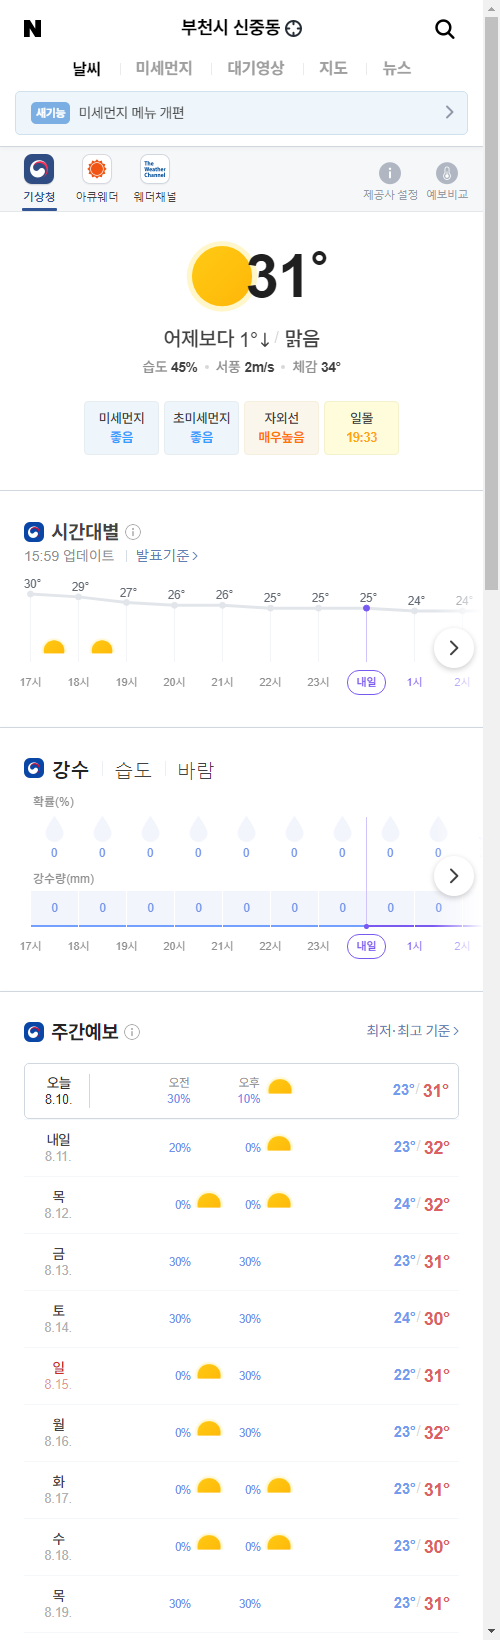
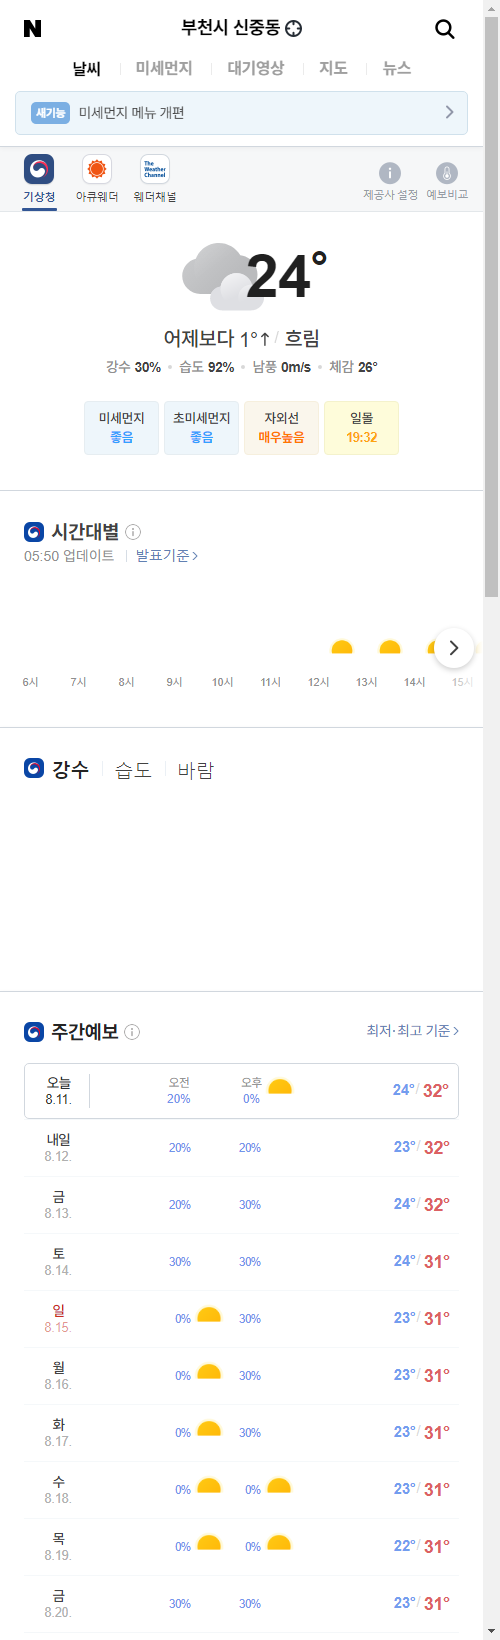
update result

diff --git a/README.md b/README.md
@@ -1,5 +1,5 @@
-##  2021-08-10 16:03:21   화요일 
-##### 날씨   -   어제보다 1° 낮아요맑음  
+##  2021-08-11 05:55:12   수요일 
+##### 날씨   -   어제보다 1° 높아요흐림  
 <center><img src="../img/naver_weather_week.png"></center>
 ----
 ----
@@ -13,17 +13,17 @@
 ##### 세계
 <table border="1" bordercolor="blue" align = "center" >
 <tr align = "right" > <td>Item</td><td>Point</td><td>Diff</td><td>Rate</td><td>Buy</td><td>Sell</td><td>...</td>  </tr>
-<tr align = "right" > <td>DOW</td><td>35,101.85</td><td>-106.66</td><td><font size="3" color="blue" >-0.3%</font></td><td><font size="3" color="black">0</font></td><td><font size="3" color="black">0</font></td><td>0</td>  </tr>
-<tr align = "right" > <td>NASDAQ</td><td>14,860.18</td><td>24.42</td><td><font size="3" color="red" >0.16%</font></td><td><font size="3" color="black">0</font></td><td><font size="3" color="black">0</font></td><td>0</td>  </tr>
-<tr align = "right" > <td>S&P</td><td>4,432.35</td><td>-4.17</td><td><font size="3" color="blue" >-0.09%</font></td><td><font size="3" color="black">0</font></td><td><font size="3" color="black">0</font></td><td>0</td>  </tr>
-<tr align = "right" > <td>SHANHAI</td><td>3,524.49</td><td>29.85</td><td><font size="3" color="red" >0.85%</font></td><td><font size="3" color="black">0</font></td><td><font size="3" color="black">0</font></td><td>0</td>  </tr>
-<tr align = "right" > <td>INDIA</td><td>54,761.14</td><td>358.29</td><td><font size="3" color="red" >0.66%</font></td><td><font size="3" color="black">0</font></td><td><font size="3" color="black">0</font></td><td>0</td>  </tr>
+<tr align = "right" > <td>DOW</td><td>35,264.67</td><td>162.82</td><td><font size="3" color="red" >0.46%</font></td><td><font size="3" color="black">0</font></td><td><font size="3" color="black">0</font></td><td>0</td>  </tr>
+<tr align = "right" > <td>NASDAQ</td><td>14,788.09</td><td>-72.09</td><td><font size="3" color="blue" >-0.49%</font></td><td><font size="3" color="black">0</font></td><td><font size="3" color="black">0</font></td><td>0</td>  </tr>
+<tr align = "right" > <td>S&P</td><td>4,436.75</td><td>4.4</td><td><font size="3" color="red" >0.1%</font></td><td><font size="3" color="black">0</font></td><td><font size="3" color="black">0</font></td><td>0</td>  </tr>
+<tr align = "right" > <td>SHANHAI</td><td>3,529.93</td><td>35.3</td><td><font size="3" color="red" >1.01%</font></td><td><font size="3" color="black">0</font></td><td><font size="3" color="black">0</font></td><td>0</td>  </tr>
+<tr align = "right" > <td>INDIA</td><td>54,554.66</td><td>151.81</td><td><font size="3" color="red" >0.28%</font></td><td><font size="3" color="black">0</font></td><td><font size="3" color="black">0</font></td><td>0</td>  </tr>
 </table>
 ----
 ##### 시장
 <table border="1" bordercolor="blue" align = "center" >
 <tr align = "right" > <td>Item</td><td>Price</td><td>Diff</td><td>Rate</td><td>Buy</td><td>Sell</td><td>...</td>  </tr>
-<tr align = "right" > <td>USD</td><td>1,149.0</td><td>3.5</td><td><font size="3" color="red">0.31%</font></td><td><font size="3" color="black">1,110</font></td><td><font size="3" color="black">0</font></td><td>0</td>  </tr>
+<tr align = "right" > <td>USD</td><td>1,151.0</td><td>5.0</td><td><font size="3" color="red">0.44%</font></td><td><font size="3" color="black">1,110</font></td><td><font size="3" color="black">0</font></td><td>0</td>  </tr>
 <tr align = "right" > <td>WTI</td><td>66.48</td><td>-1.8</td><td><font size="3" color="blue">-2.63%</font></td><td><font size="3" color="black">29.0</font></td><td><font size="3" color="black">0</font></td><td>0</td>  </tr>
 <tr align = "right" > <td>GOLD</td><td>1,723.0</td><td>-36.6</td><td><font size="3" color="blue">-2.07%</font></td><td><font size="3" color="black">0</font></td><td><font size="3" color="black">0</font></td><td>0</td>  </tr>
 </table>
